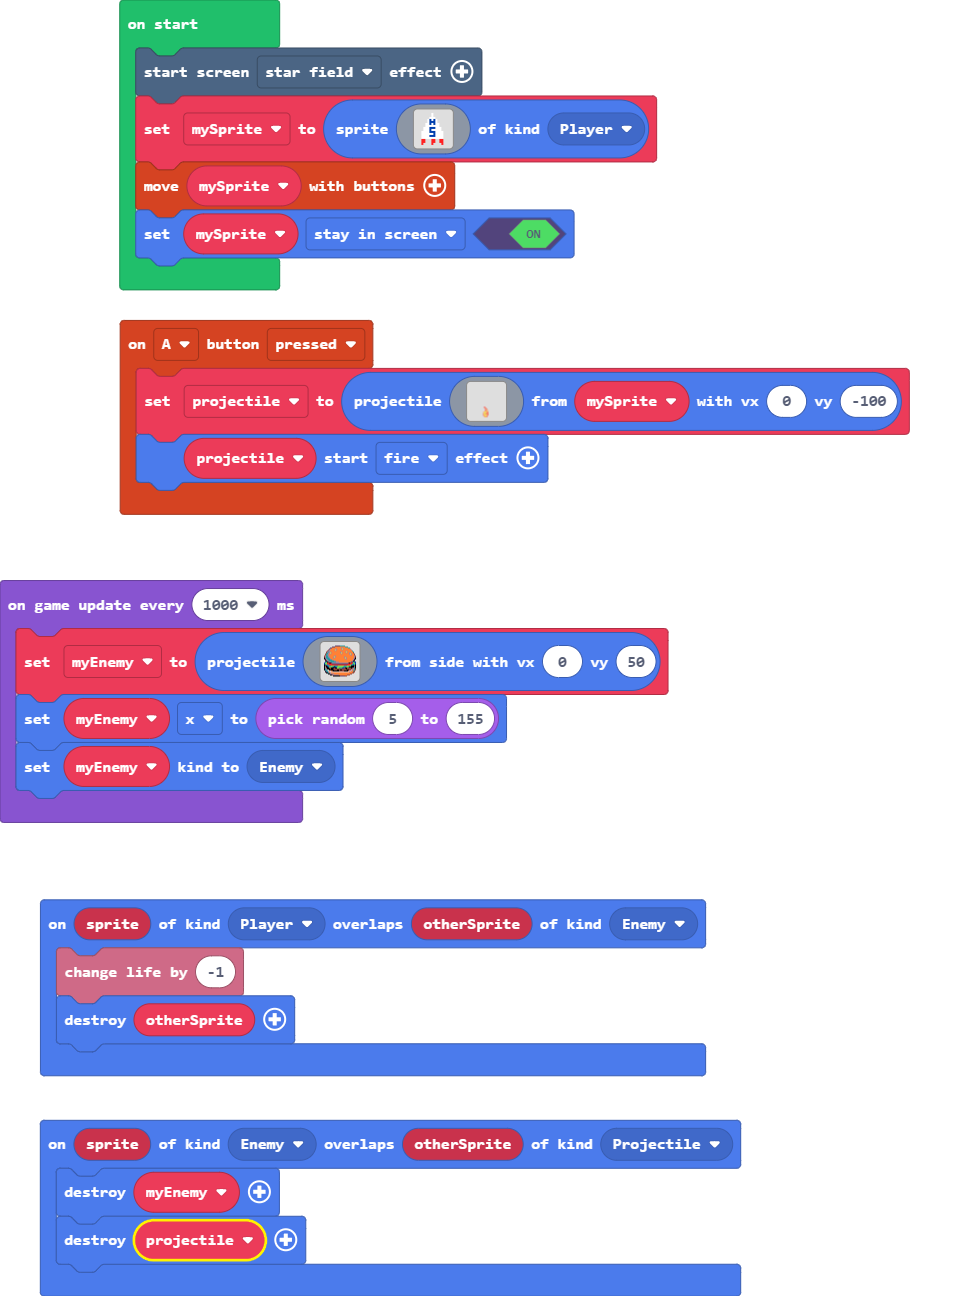
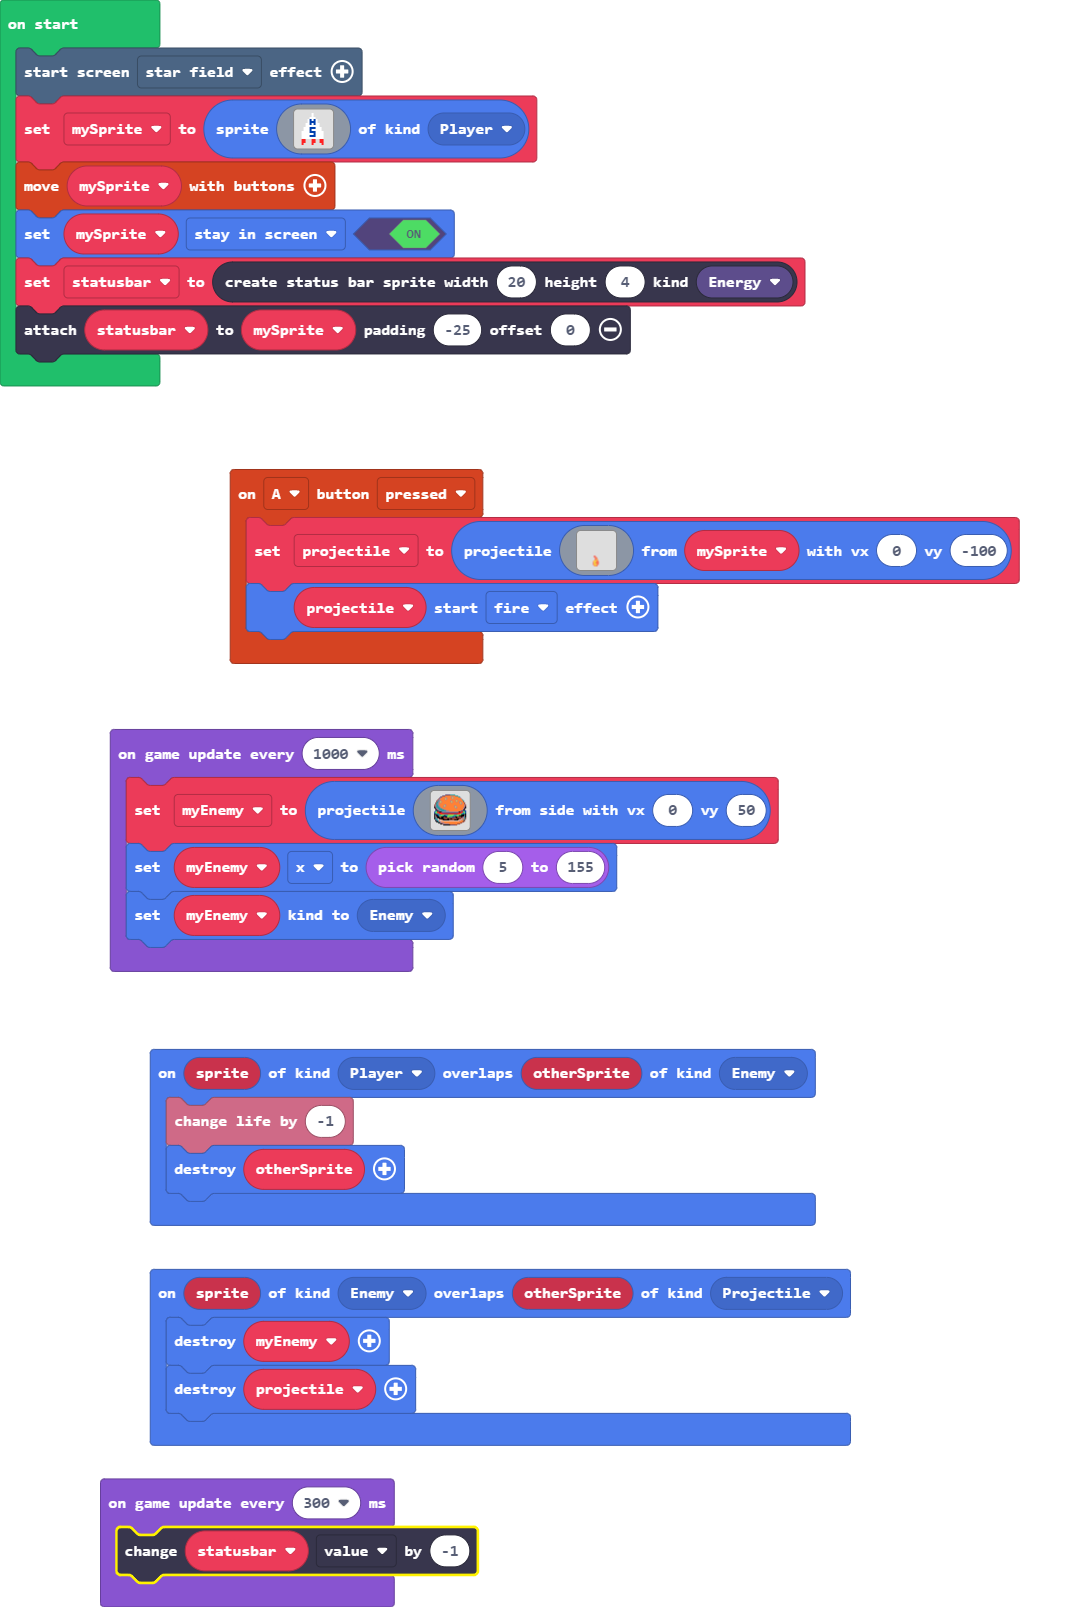
added a status bar

diff --git a/images.g.ts b/images.g.ts
@@ -1,0 +1,222 @@
+// Auto-generated code. Do not edit.
+namespace myImages {
+
+    helpers._registerFactory("image", function(name: string) {
+        switch(helpers.stringTrim(name)) {
+            case "image1":return img`
+................
+................
+................
+................
+................
+................
+................
+................
+................
+................
+................
+................
+................
+................
+................
+................
+................
+................
+................
+................
+................
+................
+................
+................
+................
+................
+................
+................
+................
+................
+................
+................
+.....22.........
+.....242........
+......242.......
+.......242......
+.......244......
+.......2444.....
+......44454.....
+.....454452.....
+....45555242....
+....45454242....
+....25452242....
+....25452442....
+....25455442....
+....2554542.....
+.....25452......
+......2542......
+`;
+            case "image2":return img`
+...........ccccc66666...........
+........ccc4444444444666........
+......cc444444444bb4444466......
+.....cb4444bb4444b5b444444b.....
+....eb4444b5b44444b44444444b....
+...ebb44444b4444444444b444446...
+..eb6bb444444444bb444b5b444446..
+..e6bb5b44444444b5b444b44bb44e..
+.e66b4b4444444444b4444444b5b44e.
+.e6bb444444444444444444444bb44e.
+eb66b44444bb444444444444444444be
+eb66bb444b5b44444444bb44444444be
+fb666b444bb444444444b5b4444444bf
+fcb666b44444444444444bb444444bcf
+.fbb6666b44444444444444444444bf.
+.efbb66666bb4444444444444444bfe.
+.86fcbb66666bbb44444444444bcc688
+8772effcbbbbbbbbbbbbbbbbcfc22778
+87722222cccccccccccccccc22226678
+f866622222222222222222222276686f
+fef866677766667777776667777fffef
+fbff877768f86777777666776fffffbf
+fbeffeefffeff7766688effeeeefeb6f
+f6bfffeffeeeeeeeeeeeeefeeeeebb6e
+f66ddfffffeeeffeffeeeeeffeedb46e
+.c66ddd4effffffeeeeeffff4ddb46e.
+.fc6b4dddddddddddddddddddb444ee.
+..ff6bb444444444444444444444ee..
+....ffbbbb4444444444444444ee....
+......ffebbbbbb44444444eee......
+.........fffffffcccccee.........
+................................
+`;
+            case "image3":return img`
+. . . . . . . 1 . . . . . . . . 
+. . . . . . . 1 . . . . . . . . 
+. . . . . . 1 1 1 . . . . . . . 
+. . . . . 1 8 1 8 1 . . . . . . 
+. . . . . 1 8 8 8 1 . . . . . . 
+. . . . 1 1 8 1 8 1 1 . . . . . 
+. . . . 1 1 1 1 1 1 1 . . . . . 
+. . . 1 1 1 8 8 8 1 1 1 . . . . 
+. . . 1 1 1 8 1 1 1 1 1 . . . . 
+. . 1 1 1 1 8 8 8 1 1 1 1 . . . 
+. . 1 1 1 1 1 1 8 1 1 1 1 . . . 
+. . 1 1 1 1 8 8 8 1 1 1 1 . . . 
+. . 1 1 1 1 1 1 1 1 1 1 1 . . . 
+. . 2 2 . . . 2 2 . . 2 2 . . . 
+. . 2 2 . . . 2 2 . . 2 2 . . . 
+. . 2 . . . . 2 . . . . 2 . . . 
+`;
+            case "image4":return img`
+................
+................
+................
+................
+................
+................
+................
+................
+................
+................
+................
+................
+................
+................
+................
+................
+................
+................
+................
+................
+................
+................
+................
+................
+................
+................
+................
+................
+................
+................
+................
+................
+.....22.........
+.....242........
+......242.......
+.......242......
+.......244......
+.......2444.....
+......44454.....
+.....454452.....
+....45555242....
+....45454242....
+....25452242....
+....25452442....
+....25455442....
+....2554542.....
+.....25452......
+......2542......
+`;
+            case "image5":return img`
+...........ccccc66666...........
+........ccc4444444444666........
+......cc444444444bb4444466......
+.....cb4444bb4444b5b444444b.....
+....eb4444b5b44444b44444444b....
+...ebb44444b4444444444b444446...
+..eb6bb444444444bb444b5b444446..
+..e6bb5b44444444b5b444b44bb44e..
+.e66b4b4444444444b4444444b5b44e.
+.e6bb444444444444444444444bb44e.
+eb66b44444bb444444444444444444be
+eb66bb444b5b44444444bb44444444be
+fb666b444bb444444444b5b4444444bf
+fcb666b44444444444444bb444444bcf
+.fbb6666b44444444444444444444bf.
+.efbb66666bb4444444444444444bfe.
+.86fcbb66666bbb44444444444bcc688
+8772effcbbbbbbbbbbbbbbbbcfc22778
+87722222cccccccccccccccc22226678
+f866622222222222222222222276686f
+fef866677766667777776667777fffef
+fbff877768f86777777666776fffffbf
+fbeffeefffeff7766688effeeeefeb6f
+f6bfffeffeeeeeeeeeeeeefeeeeebb6e
+f66ddfffffeeeffeffeeeeeffeedb46e
+.c66ddd4effffffeeeeeffff4ddb46e.
+.fc6b4dddddddddddddddddddb444ee.
+..ff6bb444444444444444444444ee..
+....ffbbbb4444444444444444ee....
+......ffebbbbbb44444444eee......
+.........fffffffcccccee.........
+................................
+`;
+            case "image6":return img`
+. . . . . . . 1 . . . . . . . . 
+. . . . . . . 1 . . . . . . . . 
+. . . . . . 1 1 1 . . . . . . . 
+. . . . . 1 8 1 8 1 . . . . . . 
+. . . . . 1 8 8 8 1 . . . . . . 
+. . . . 1 1 8 1 8 1 1 . . . . . 
+. . . . 1 1 1 1 1 1 1 . . . . . 
+. . . 1 1 1 8 8 8 1 1 1 . . . . 
+. . . 1 1 1 8 1 1 1 1 1 . . . . 
+. . 1 1 1 1 8 8 8 1 1 1 1 . . . 
+. . 1 1 1 1 1 1 8 1 1 1 1 . . . 
+. . 1 1 1 1 8 8 8 1 1 1 1 . . . 
+. . 1 1 1 1 1 1 1 1 1 1 1 . . . 
+. . 2 2 . . . 2 2 . . 2 2 . . . 
+. . 2 2 . . . 2 2 . . 2 2 . . . 
+. . 2 . . . . 2 . . . . 2 . . . 
+`;
+        }
+        return null;
+    })
+
+    helpers._registerFactory("animation", function(name: string) {
+        switch(helpers.stringTrim(name)) {
+
+        }
+        return null;
+    })
+
+}
+// Auto-generated code. Do not edit.

diff --git a/main.ts b/main.ts
@@ -83,6 +83,8 @@ mySprite = sprites.create(img`
     `, SpriteKind.Player)
 controller.moveSprite(mySprite)
 mySprite.setFlag(SpriteFlag.StayInScreen, true)
+let statusbar = statusbars.create(20, 4, StatusBarKind.Energy)
+statusbar.attachToSprite(mySprite, -25, 0)
 game.onUpdateInterval(1000, function () {
     myEnemy = sprites.createProjectileFromSide(img`
         ...........ccccc66666...........
@@ -120,4 +122,7 @@ game.onUpdateInterval(1000, function () {
         `, 0, 50)
     myEnemy.x = randint(5, 155)
     myEnemy.setKind(SpriteKind.Enemy)
+})
+game.onUpdateInterval(300, function () {
+    statusbar.value += -1
 })

diff --git a/tilemap.g.ts b/tilemap.g.ts
@@ -3,5 +3,12 @@ namespace myTiles {
     //% fixedInstance jres blockIdentity=images._tile
     export const transparency16 = image.ofBuffer(hex``);
 
+    helpers._registerFactory("tile", function(name: string) {
+        switch(helpers.stringTrim(name)) {
+            case "transparency16":return transparency16;
+        }
+        return null;
+    })
+
 }
 // Auto-generated code. Do not edit.
